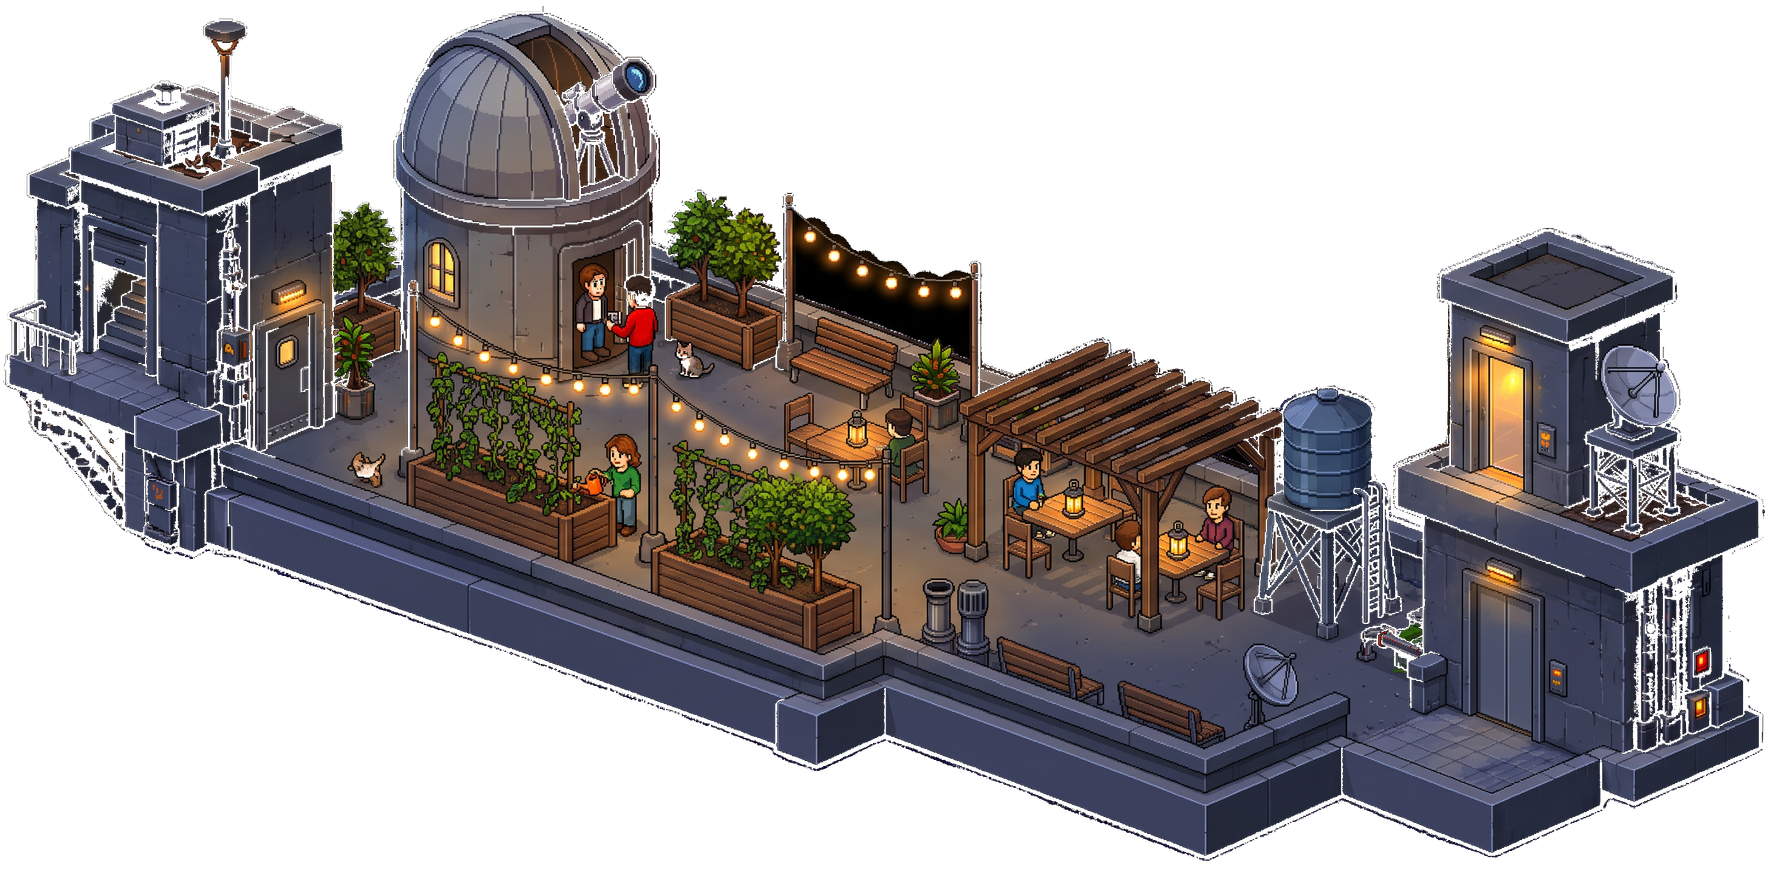
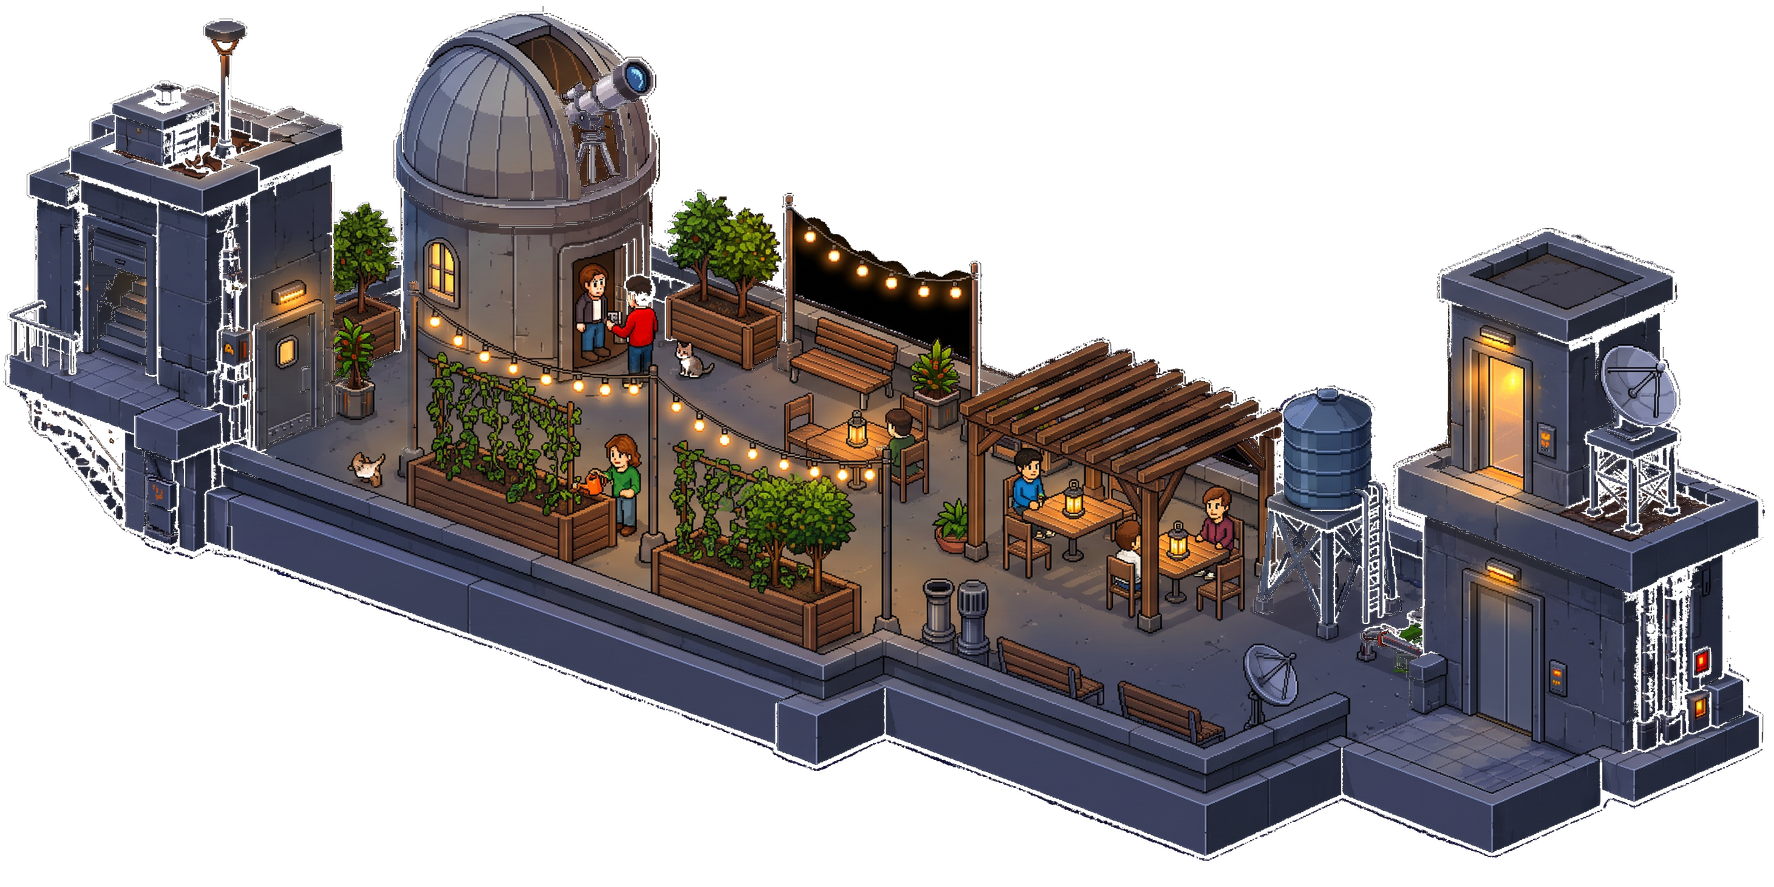
Repair the transparency veins, and stop making new ones (#40)
* Fill the transparency veins in the static tiles

Viewed on a white page rather than the app's dark background, the roof was full
of white veins tracing its own outlines: 9,825 transparent pixels inside the
artwork. The app hides this because the page behind is dark and the holes
resolve to something close to the line they replaced -- but floors overlap, so
the floor below shows through them.

The cause is the alpha key following black lines. When a generation comes back
on a dark background, restoreAlpha samples black as background and every dark
outline in the drawing becomes a channel the flood fill can run down. That is a
fix to alpha.ts and a separate pass; this is the repair to the assets already
carrying the damage.

Repairing it needs no judgement: transparency that cannot be reached from
outside the silhouette is a hole by definition, so it is made opaque again with
colour from its nearest opaque neighbour. Roof 9,825, basement 2,577, reference
floor 76. All three now measure zero.

The light fringe around the outer silhouette is untouched. That is the same root
cause and the same upcoming pass.

Claude-Session: https://claude.ai/code/session_01D3eWXfNsC6L4BFE8D5HtPY

* Ask for a #222 outline on a black background

The outline instruction asked for solid black on whatever background the model
felt like. Both halves were wrong.

Generations already come back on black often, and those are the good ones, so
[…]

diff --git a/src/lib/prompts/edit-instructions-basic.md b/src/lib/prompts/edit-instructions-basic.md
@@ -45,6 +45,15 @@ elevator door. Replace it with {{number}} -- same position, size, font, colour
 and weathering, with the reference's own number gone. It must be legible, and
 must appear nowhere else on the floor.
 
+PROJECTION -- THE COMMON DEFAULT IS WRONG HERE:
+This building is not drawn on a standard 2:1 isometric grid. Its horizontals are
+shallower. Every horizontal edge -- the front ledge, the floor line, the rear
+wall, the tops of the walls -- travels about 2.75 pixels sideways for every 1
+pixel it drops, roughly 20 degrees. A 2:1 grid at 26.6 degrees is the usual
+default and it does not stack with these floors: a tile drawn that way meets its
+neighbours at the wrong angle and the building visibly kinks at that storey.
+Measure the reference and match it.
+
 KEEP FROM THE REFERENCE:
 Everything structural. Camera angle, building dimensions, wall and floor
 thickness, left and right endpoints, pixel density, art direction, and the clean
@@ -63,10 +72,19 @@ Highly detailed isometric pixel art, 16/32-bit game aesthetic. Crisp deliberate
 pixel edges, consistent pixel density and object scale, rich interior lighting,
 tiny expressive characters. Dense but readable.
 
-OUTLINE:
-Draw a solid black outline, 2 to 3 pixels thick, around the whole outer
-silhouette of the floor where it meets the transparent surround. Hard and
-unbroken, no glow, no feathering, no gap. It is what makes a floor read as a
-solid object rather than a cutout pasted onto the page.
+BACKGROUND AND OUTLINE:
+Everything around the building is solid pure black, #000000, edge to edge. No
+gradient, no vignette, no glow, no checkerboard.
+
+Draw the outline of the building in #222222 -- a very dark grey, not black --
+2 to 3 pixels thick, around the whole outer silhouette where it meets that black
+surround. Hard and unbroken, no feathering, no gap.
+
+The outline reads as black to the eye and is what makes a floor look like a solid
+object rather than a cutout. The reason it is #222222 rather than #000000 is
+mechanical: the background is keyed out by flooding inward from the edge, and a
+pure black outline on a pure black background is the same colour, so the flood
+runs down every dark line in the drawing and hollows it out. Two shades apart is
+invisible to a viewer and a wall to the fill.
 
 {{content}}
